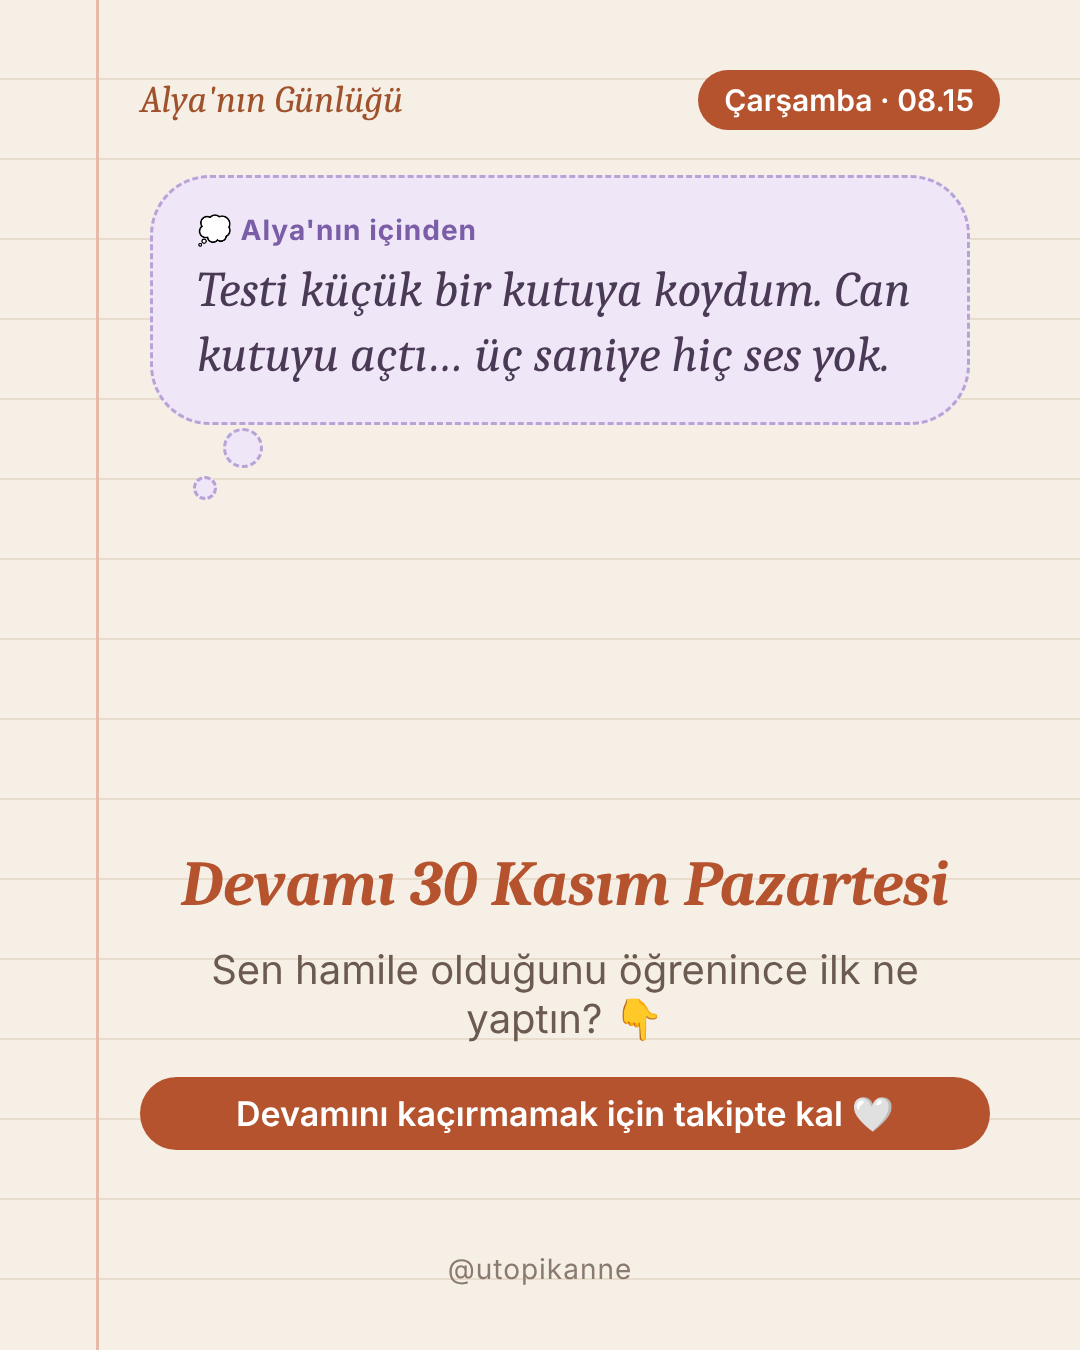
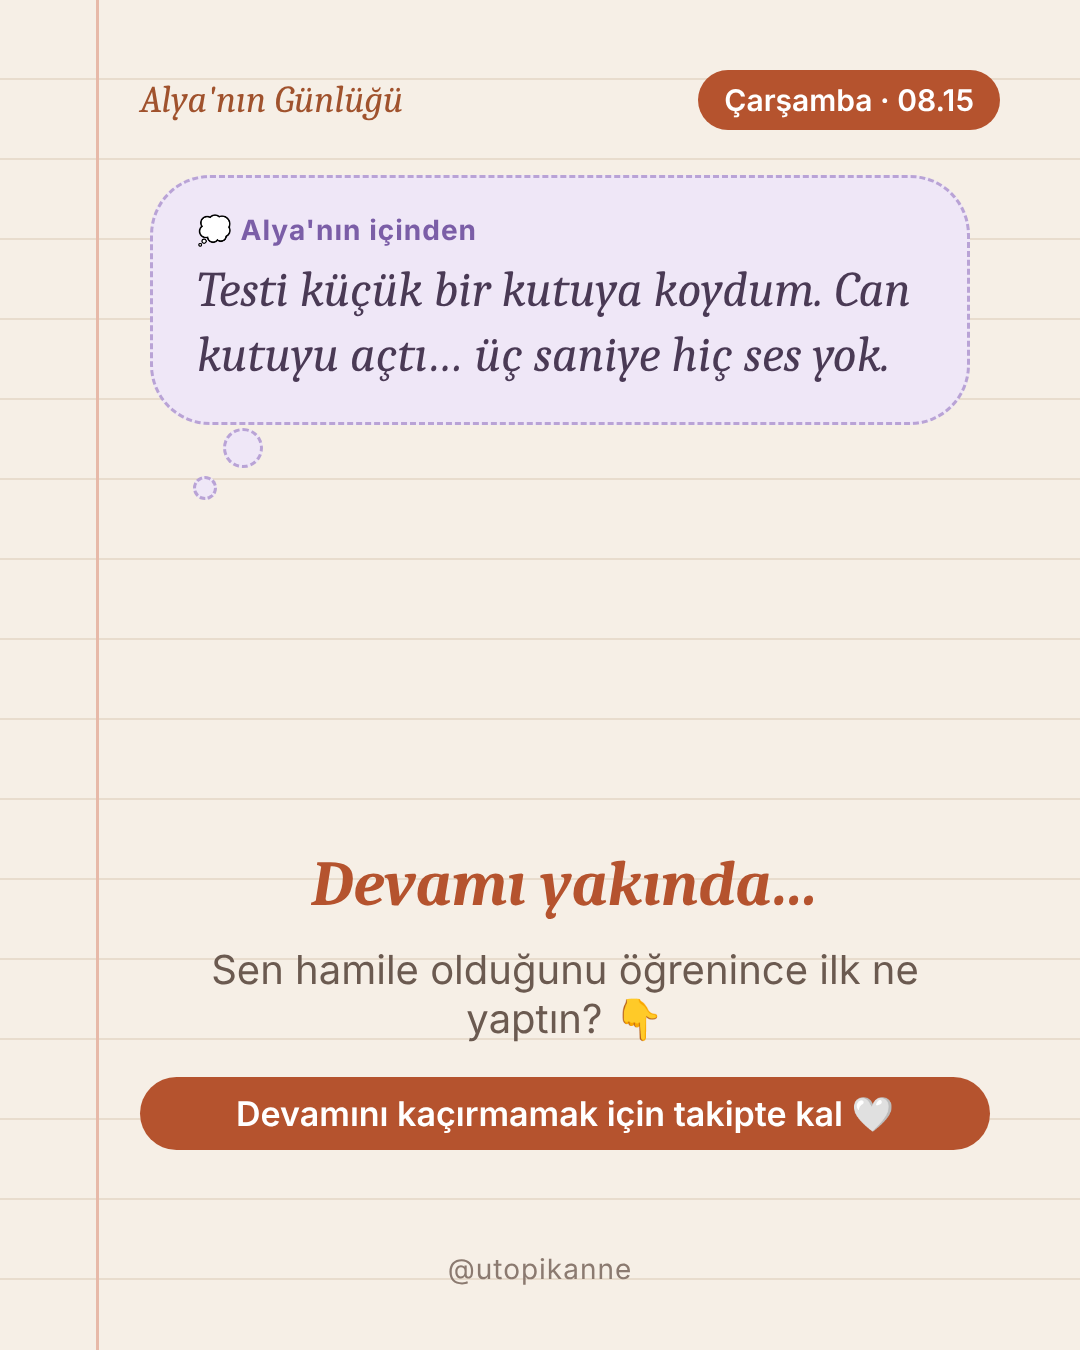
utopikanne: Alya son sayfada gün yok
Claude-Session: https://claude.ai/code/session_01QGX4XsF2fmNtuvzmoWMg9N

Changed region(s): [[0.1528, 0.6222, 0.8861, 0.6844]]

diff --git a/hesaplar/utopikanne/seri_ece.md b/hesaplar/utopikanne/seri_ece.md
@@ -92,3 +92,4 @@ KURAL (26 Kasım 21:06, B1 hatası): Mesajlar günlüğe bakmadan da anlaşılı
 
 ## İÇERİK KURALI (Melike 26 Kasım 22:26): Her bölüm = 1 KONU (listeden) + 1 DUYGU + 1 BİLGİ (açıklamada, resmî kaynak + 'doktoruna danış') + 1 MERAK (son sayfa). Konular: Vitaminler · Kilo/iştah · Aşerme · Siyatik · NST · Ultrason · Beslenme · Doğum · Lohusalık. Yayından önce kontrol: konuşma gerçek yazışma gibi mi, her mesaj kendi başına anlaşılıyor mu, bilgi doğru ve kaynaklı mı, doz/kilo sayısı/diyet dili yok mu.
 İŞ AKIŞI (Melike 27 Kasım 14:01): Her bölümün diyalogları ÖNCE düz yazı olarak Melike'ye gönderilir, onaylarsa tasarım (alya_sohbet.py) yapılır. Araştırma notları: hesaplar/utopikanne/alya_arastirma.md.
+KURAL (27 Kasım 21:06): Son sayfada GÜN VERİLMEZ: 'Devamı yakında…'. Bölümler Melike'nin uygun olduğu gün yayınlanır.
